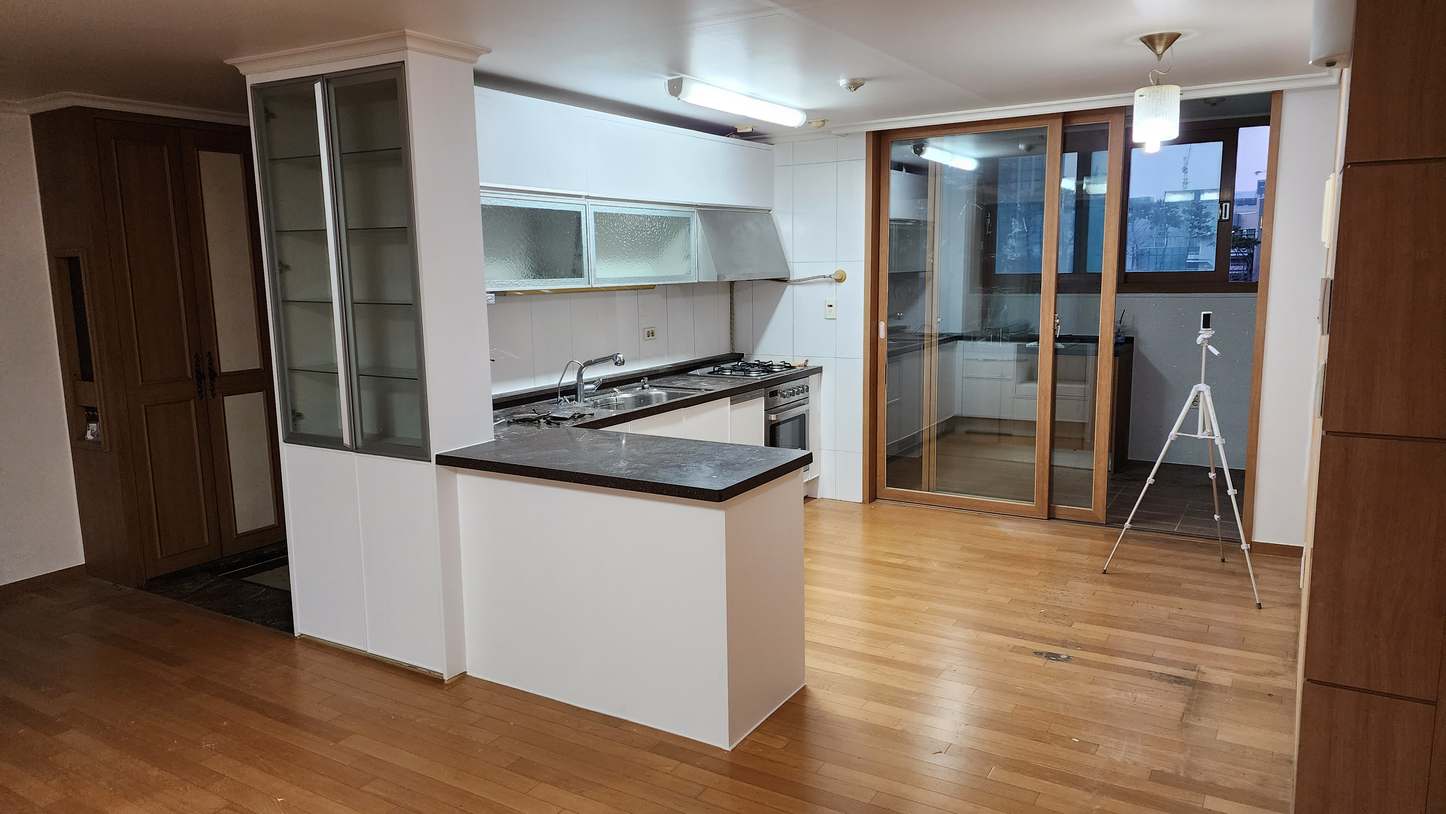
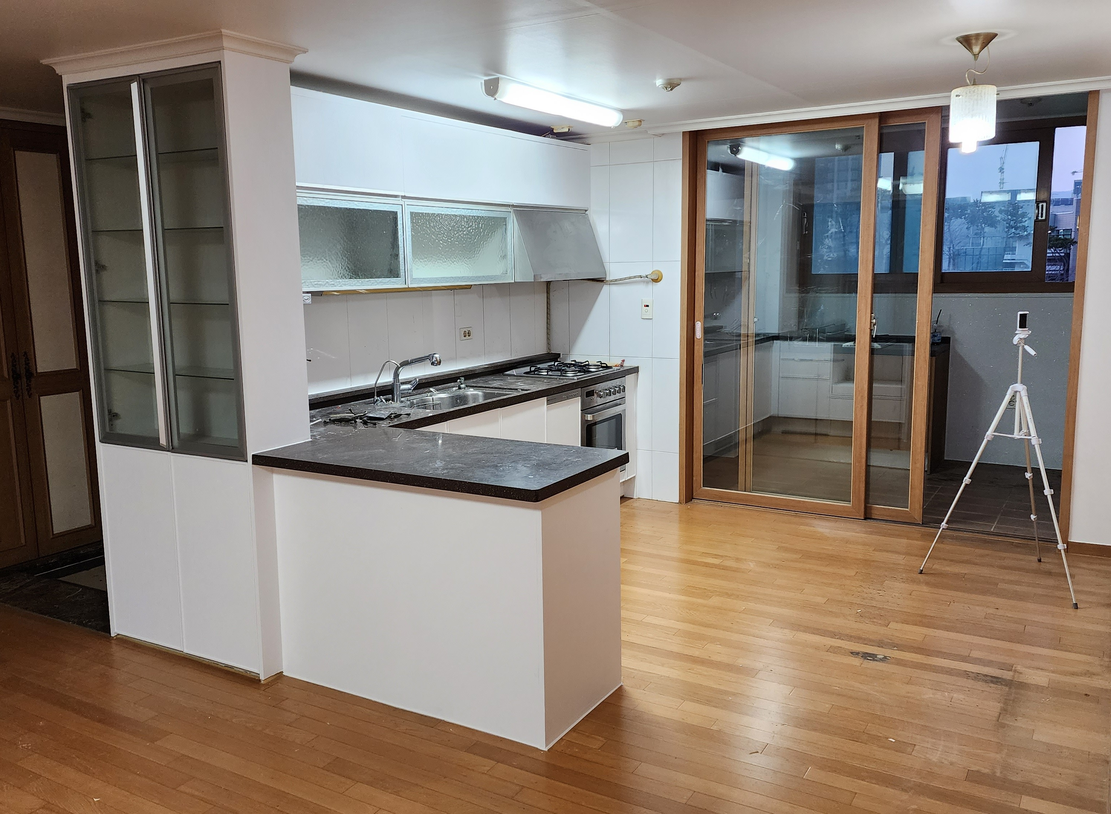
카톡채널

diff --git a/src/App.jsx b/src/App.jsx
@@ -21,6 +21,54 @@ function App() {
         <Route path="/review" element={<Review />} />
         <Route path="/contact" element={<Contact />} />
       </Routes>
+
+      <a   
+        href="http://pf.kakao.com/_lxgyxcn"
+        target="_blank"
+        rel="noreferrer"
+        style={{
+          position: 'fixed',
+          bottom: 32,
+          right: 32,
+          zIndex: 999,
+          display: 'flex',
+          flexDirection: 'column',
+          alignItems: 'center',
+          gap: 6,
+          textDecoration: 'none',
+        }}
+      >
+        <div style={{
+          background: '#FEE500',
+          borderRadius: '50%',
+          width: 56,
+          height: 56,
+          display: 'flex',
+          alignItems: 'center',
+          justifyContent: 'center',
+          boxShadow: '0 4px 16px rgba(0,0,0,0.15)',
+          fontSize: '1.6rem',
+          animation: 'float 2.5s ease-in-out infinite',
+        }}>
+          💬
+        </div>
+        <span style={{
+          background: '#FEE500',
+          color: '#3A1D1D',
+          fontSize: '0.7rem',
+          fontWeight: 700,
+          padding: '4px 10px',
+          borderRadius: 20,
+          boxShadow: '0 2px 8px rgba(0,0,0,0.1)',
+          whiteSpace: 'nowrap',
+          fontFamily: "'Noto Serif KR', serif",
+          textAlign: 'center',
+          lineHeight: 1.5,
+        }}>
+          우리 집 필요한 시공,<br/>견적이 궁금하다면?
+        </span>
+      </a>
+
     </BrowserRouter>
   )
 }

diff --git a/src/data/careConfig.js b/src/data/careConfig.js
@@ -57,5 +57,13 @@ export const careConfig = {
   carePeriod: '시공 완료일로부터 1년',
   careType:   'period',
   },
+  '인테리어 필름': {
+  category:        '인테리어 필름',
+  partner:         '지금인테리어필름',
+  ownerName:       '이현재',
+  carePeriod:      '시공 완료일로부터 1년',
+  careType:        'period',
+  careDescription: '습기로 인한 손상 또는 부주의로 인한 훼손은 유상 처리됩니다.',
+},
 }
 

diff --git a/src/index.css b/src/index.css
@@ -17,3 +17,10 @@ a {
   text-decoration: none;
   color: inherit;
 }
+
+/* 카카오톡 플로팅 */
+@keyframes float {
+  0%   { transform: translateY(0px); }
+  50%  { transform: translateY(-6px); }
+  100% { transform: translateY(0px); }
+}

diff --git a/src/data/partners/present.js b/src/data/partners/present.js
@@ -14,7 +14,6 @@ export const present = {
   stats: [
     { label: '시공 기준',   value: '교체 없이 공간 변화' },
     { label: '시공 경력',   value: '10년' },
-
     { label: '거점 구역',   value: '부산' },
   ],
 
